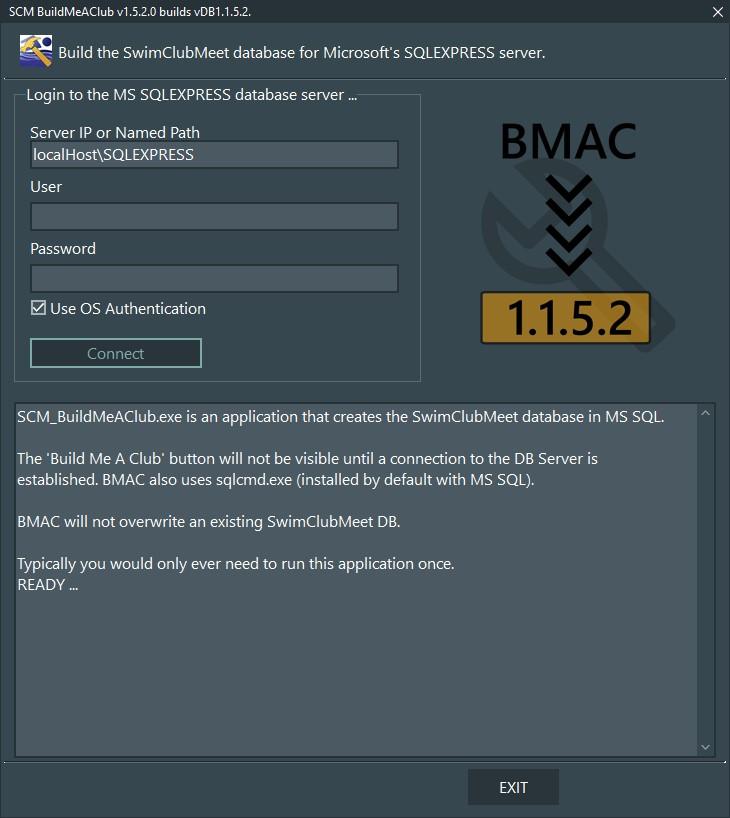
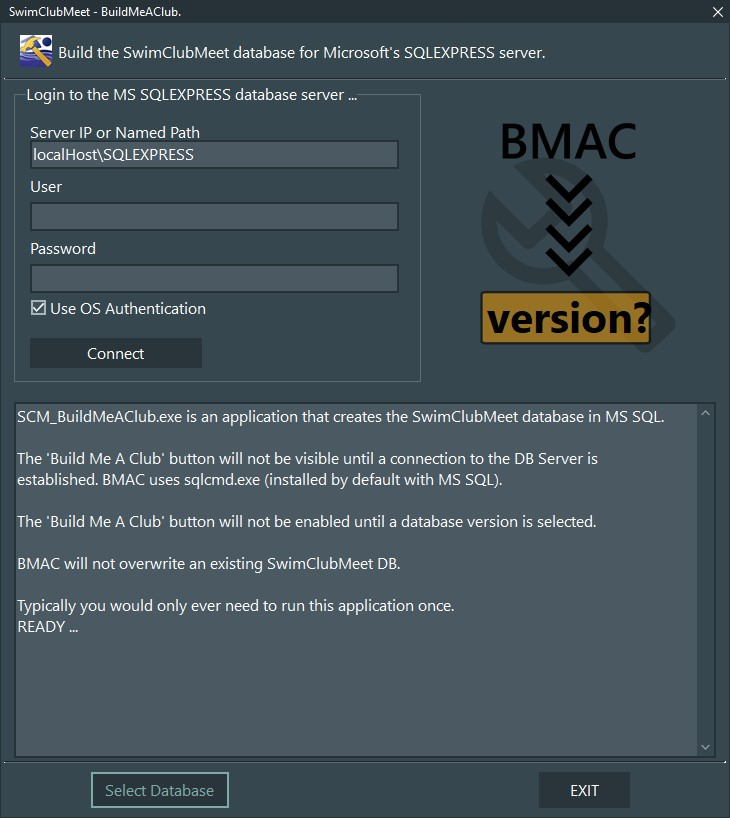
GitHub ReadMe.md update

diff --git a/README.md b/README.md
@@ -17,13 +17,9 @@ If you are interested in following a developer's blog and track my progress then
 
 ---
 
-#### 02.06.2023
+#### 09.12.2023
 
-Just some quick notes on the BMAC_SCRIPTS folder. In future builds there will be a single SQL script for each database version. (02/06/23 Keep a watch on the folder and look for some new release builds for SCM_BuildMeAClub.)
-
-I've done a little work on the repo's wiki. Here you'll find some info on the versions and other bits.
-
-It takes time to build a solid, well performing database 😋. I reach out to users - do you want to sponsor me?
+BMAC now is a universal SCM database builder. It checks for specific folders, installed upon installation of the application. An additional button has been added that lets you choose what version to build.
 
 ---
 
@@ -33,9 +29,23 @@ After install, by default an icon isn't placed on the desktop. Type **build** in
 
 ### ON START-UP
 
-The 'Build Me A Club' button will not be visible until a connection to the database server has been established. BMAC requires the SQL command utility, sqlcmd.exe. If you are using this application to create the database on a remote database server, then sqlcmd.exe must be correctly pathed.
+The 'Build Me A Club' button will not be visible until a connection to the database server has been established. BMAC uses the SQL command utility, sqlcmd.exe. (Installed by default when you install MS SQLEXPRESS.) If you are using this application to create the database on a remote database server, then sqlcmd.exe must be correctly pathed.
 
 > Typically sqlcmd.exe is installed by default when you install MS SQLEXPRESS.
+
+Use the `Select Database` button to pick the SwimClubMeet database to build.
+
+|DB version|SCM version|Notes, highlights|
+|----------|-----------|--------------|
+|1.0.0.0 | 1.0.0.0 | Birth of app 2019|
+|1.1.5.0 | 1.5.5.0 | GitHub release
+|1.1.5.1 | 1.5.5.1 | New heat navigation bar|
+|1.1.5.2 | 1.5.5.2 |
+|1.1.5.2 | 1.6 |Rename - FINA codes + scheduled events|
+|1.1.5.3 | 1.5.5.3 |
+|1.1.5.3 | 1.7 |Rename - team events|
+|1.1.5.4 | 1.8 |New reports builder|
+|1.1.5.5 | 1.9 |Pool timing pad integration|
 
 BMAC will not overwrite an existing SwimClubMeet database.
 
@@ -43,17 +53,18 @@ You would only ever need to run this application once. After a successful build 
 
 > Use Windows **Apps and Features** to remove the application.
 
+A utility call `SCM_UpdateDatabase` is available to progress to other versions as they become available.
+
 ### ERRORS?
 
 Any errors created by sqlcmd.exe are displayed in BMAC's text window.
 
-A server side log file is also produced. This will be located in your documents folder with the filename **SCM_BuildMeAClub.log**. View this file should an error occur.
+A server side log file is also produced. This will be located in your documents folder with the filename **SCM_BuildMeAClub.log**.
 
 > The log file is not removed on uninstall. This is intentional.
 
 ---
 
-![ScreenShot of BMAC after logging in.](ASSETS/Screenshot%20BMAC%20MainForm.JPG)
+![ScreenShot of BMAC pior to login.](ASSETS/Screenshot%20BMAC%20MainForm.JPG)
 
-
-
+![ScreenShot of Select Database DLG.](ASSETS/Screenshot%20BMAC%20Select%20DB.JPG)
